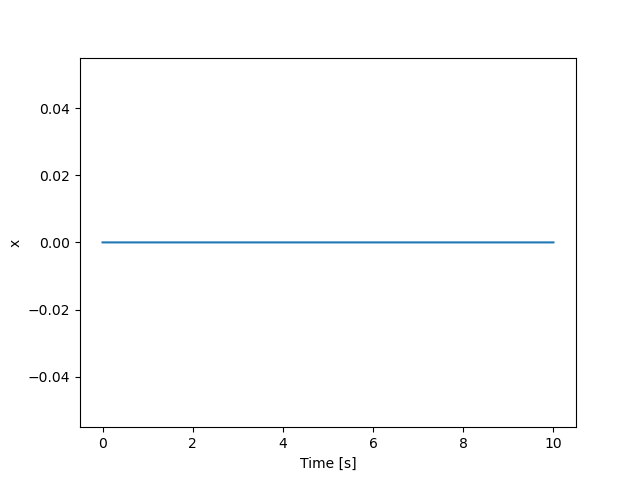
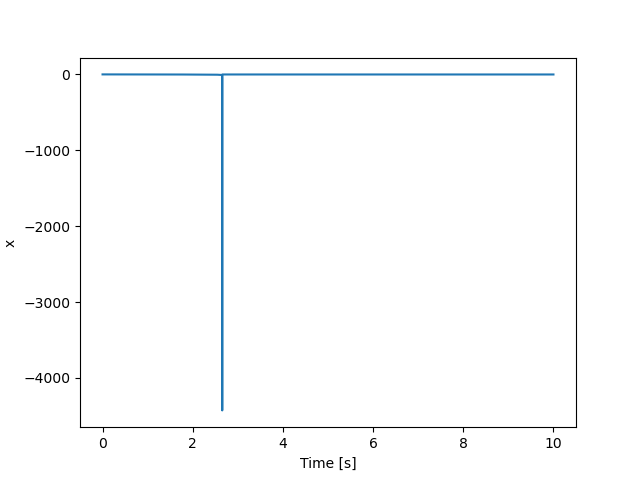
Fixed taylor series deriv

diff --git a/taylor/malachy_code.py b/taylor/malachy_code.py
@@ -19,7 +19,7 @@ def fourier(x,c):
     #     n+=1
     return np.dot(np.array(c),np.array(fs))
 
-def deriv(f,t,param): # return derivatives of the array f[x,dx/dt,theta,dtheta/dt]
+def deriv(f,t): # return derivatives of the array f[x,dx/dt,theta,dtheta/dt]
     x = f[0]
     dxdt = f[1]
 
@@ -27,6 +27,7 @@ def deriv(f,t,param): # return derivatives of the array f[x,dx/dt,theta,dtheta/d
     # d2xdt2 = gammaD*omega0**2*np.cos(omegaD*t) - 2*betaD*dxdt - omega0**2*np.sin(x)
     #Without
     d2xdt2 = - taylor(x, c)/m*dxdt - k*x/m
+    # d2xdt2 = - 1/m*dxdt - k*x/m
     
     return [dxdt,d2xdt2]
 
@@ -36,17 +37,17 @@ k = 1
 m = 1
 c = []
 while len(c) < ncoef:
-    rand = random.uniform(-1,1)
+    rand = random.uniform(0,1)
     c.append(rand)
 
 #Define the time array
-max_time = 10
-n_steps = 10000
+max_time = 20
+n_steps = 1000000
 time = np.linspace(0.0,max_time,n_steps)
 
-yinit = [0,0] # initial values of x0 and dx0, respectively
+yinit = [1,0] # initial values of x0 and dx0, respectively
 param = np.array([0.2]) #Setting the value of gammaD in the param array so that it can be passed to the deriv function
-f_solun = odeint(deriv,yinit,time,args=(param,))
+f_solun = odeint(deriv,yinit,time)
 
 print(c)
 plt.figure()
@@ -54,4 +55,4 @@ plt.plot(time, f_solun[:,0])
 plt.xlabel('Time [s]')
 plt.ylabel('x')
 plt.show()
-plt.savefig('foo.png')
+plt.savefig('foo3.png')
